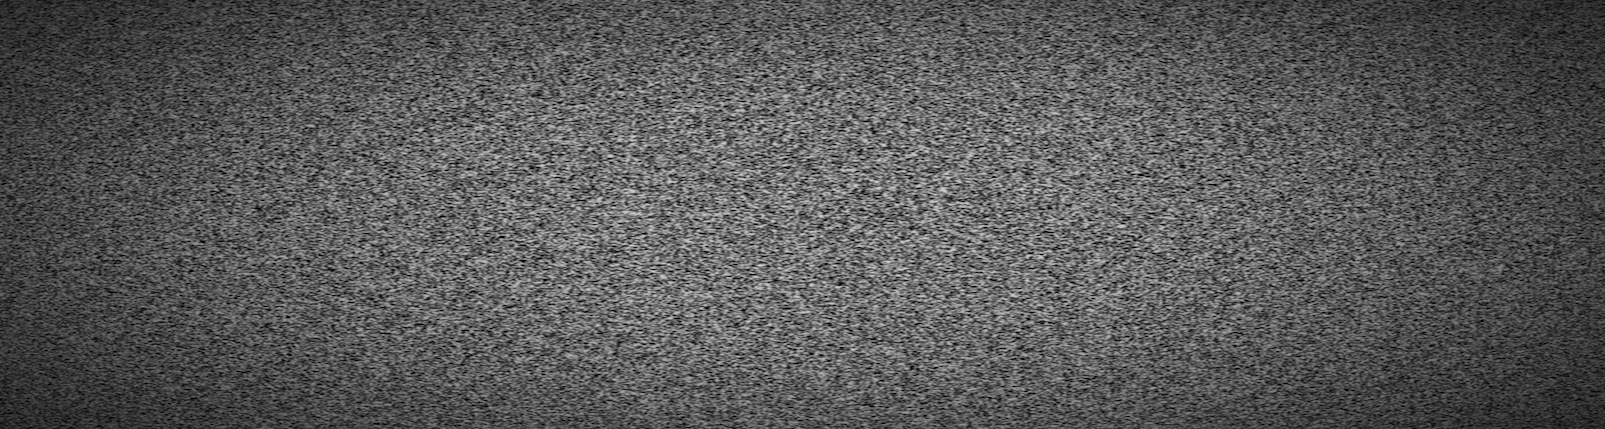
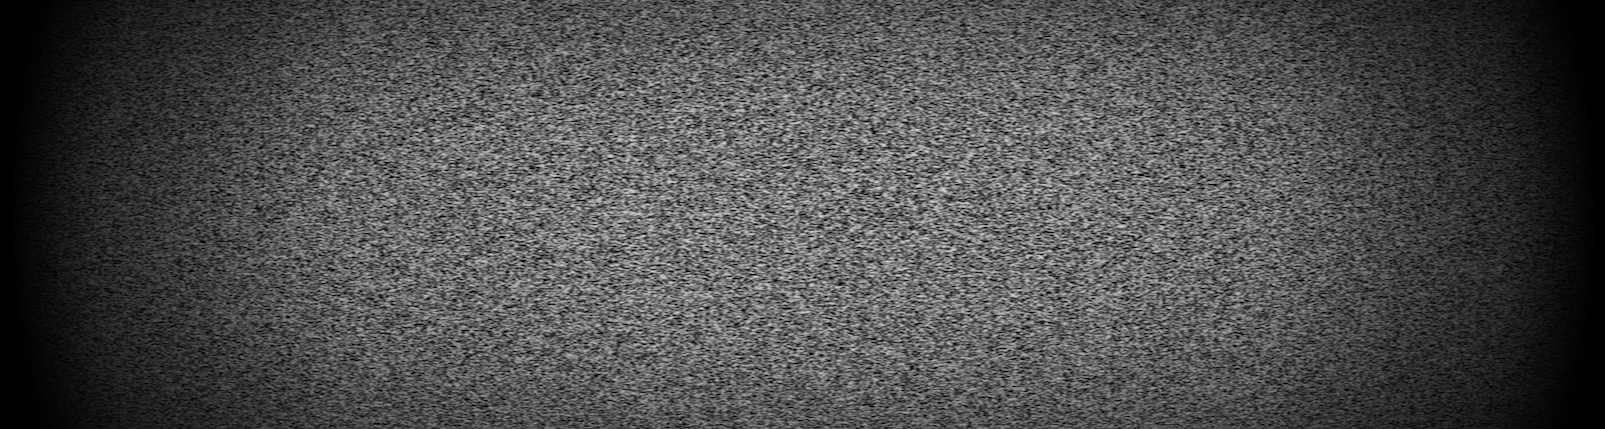
header: fades to black on widescreen
also center text of header and button

Changed region(s): [[0.8411, 0.0, 1.0, 1.0], [0.0, 0.0, 0.1869, 1.0]]

diff --git a/css/site.css b/css/site.css
@@ -92,9 +92,14 @@ section .step {
     margin-right: 30px;
 }
 
-.home {
-    background: url('../img/static.jpg') center 40px no-repeat white;
+.main {
+    background: url('../img/static.jpg') center 40px no-repeat black;
     padding-top: 55px;
+    margin: 0 0 2em 0;
+    background-color: black;
+    height: 415px;
+    color: white;
+    text-align: center;
 }
 
 .draft {
@@ -104,29 +109,18 @@ section .step {
 }
 
 .hero-unit {
-    width: 855px;
 /*    padding-left: 90px;*/
     background: url('../img/note.png') right center no-repeat;
     background-color: none;
 /*    padding: 60px 400px 0px 40px;*/
     /* margin-right: 130px; */
     /* margin-bottom: 90px; */
-    height: 304px;
-    margin: 0px auto;
+    margin: 0px;
 /*    min-width: 850px;*/
 }
 
 .hero-unit .jump {
-    /* background-color: rgba(38,38,38,0.4); */
-    -webkit-border-radius: 6px;
-    -moz-border-radius: 6px;
-    border-radius: 6px;
-    /* padding: 30px; */
-    padding-top: 150px;
-    padding-left: 30px;
-    width: 1000px;
-    margin-left: -55px;
-    /* box-shadow: -2px -2px 30px rgba(38,38,38,0.5); */
+    padding-top: 100px;
 }
 
 

diff --git a/index.html b/index.html
@@ -28,6 +28,18 @@
 
   <body class="home">
 
+      <main class="main" role="main">
+          <div class="container-fluid">
+              <div class="hero-unit">
+                  <div class="jump">
+                      <h1>Noise Protocol Framework</h1>
+                      <br>
+                      <p><a class="btn btn-primary btn-large" href="noise.html">Read Specification</a></p>
+                  </div>
+              </div>
+          </div>
+      </main>
+
     <div class="navbar navbar-fixed-top">
       <div class="navbar-inner">
 	<div class="container">
@@ -41,17 +53,6 @@
     </div>
 
     <div class="container">
-      <!-- Main hero unit for a primary marketing message or call to action -->
-      <div class="hero-unit">
-	<div class="jump">
-          <h1 style="color: #ffffff;">Noise Protocol Framework</h1>
-	  <br>
-	  <p style="color: #ffffff;">
-
-	  <p><a class="btn btn-primary btn-large" href="noise.html">Read Specification</a></p>
-	</div>
-      </div>
-
       <section class="row features">
 	<h2>
 	Crypto protocols that are simple, fast, and secure
